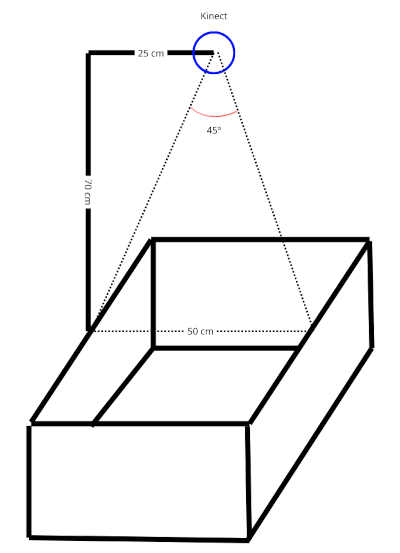
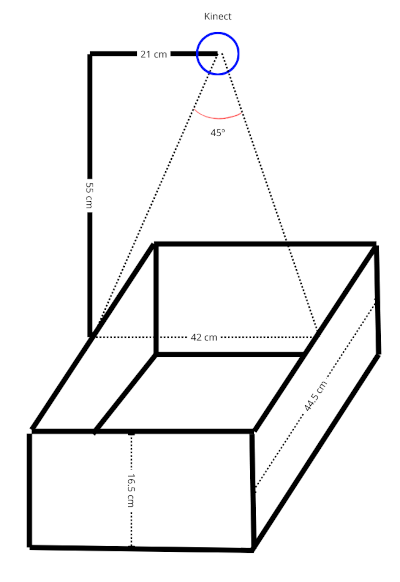
update kinect files

diff --git a/6-Kinect.md b/6-Kinect.md
@@ -45,6 +45,8 @@ The overall ideia is presented by below image:
 
 The implementation resulted in:
 
+<img src="imgs/setup-08.jpeg">
+
 ## <a name="section-3"></a> 3. Software setup
 
 Requirements:
